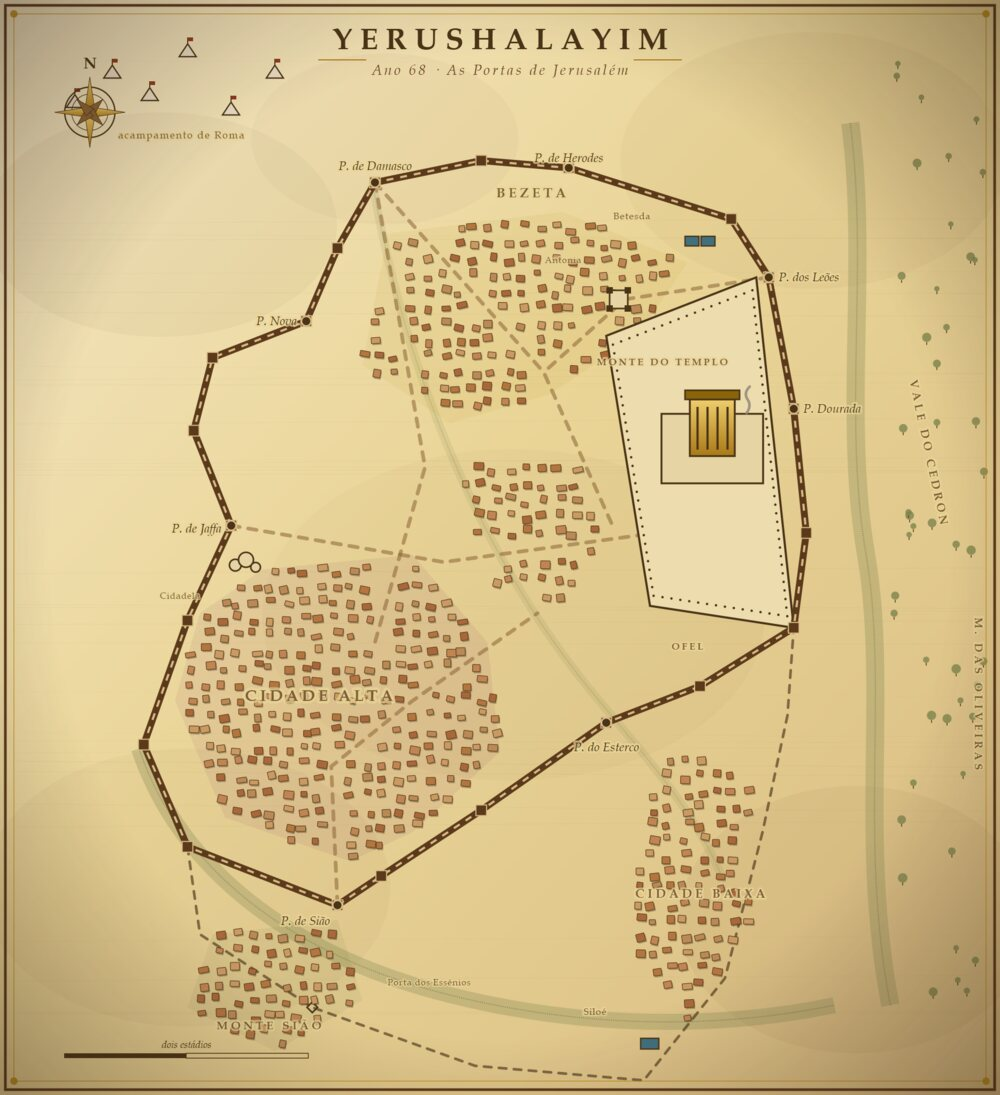
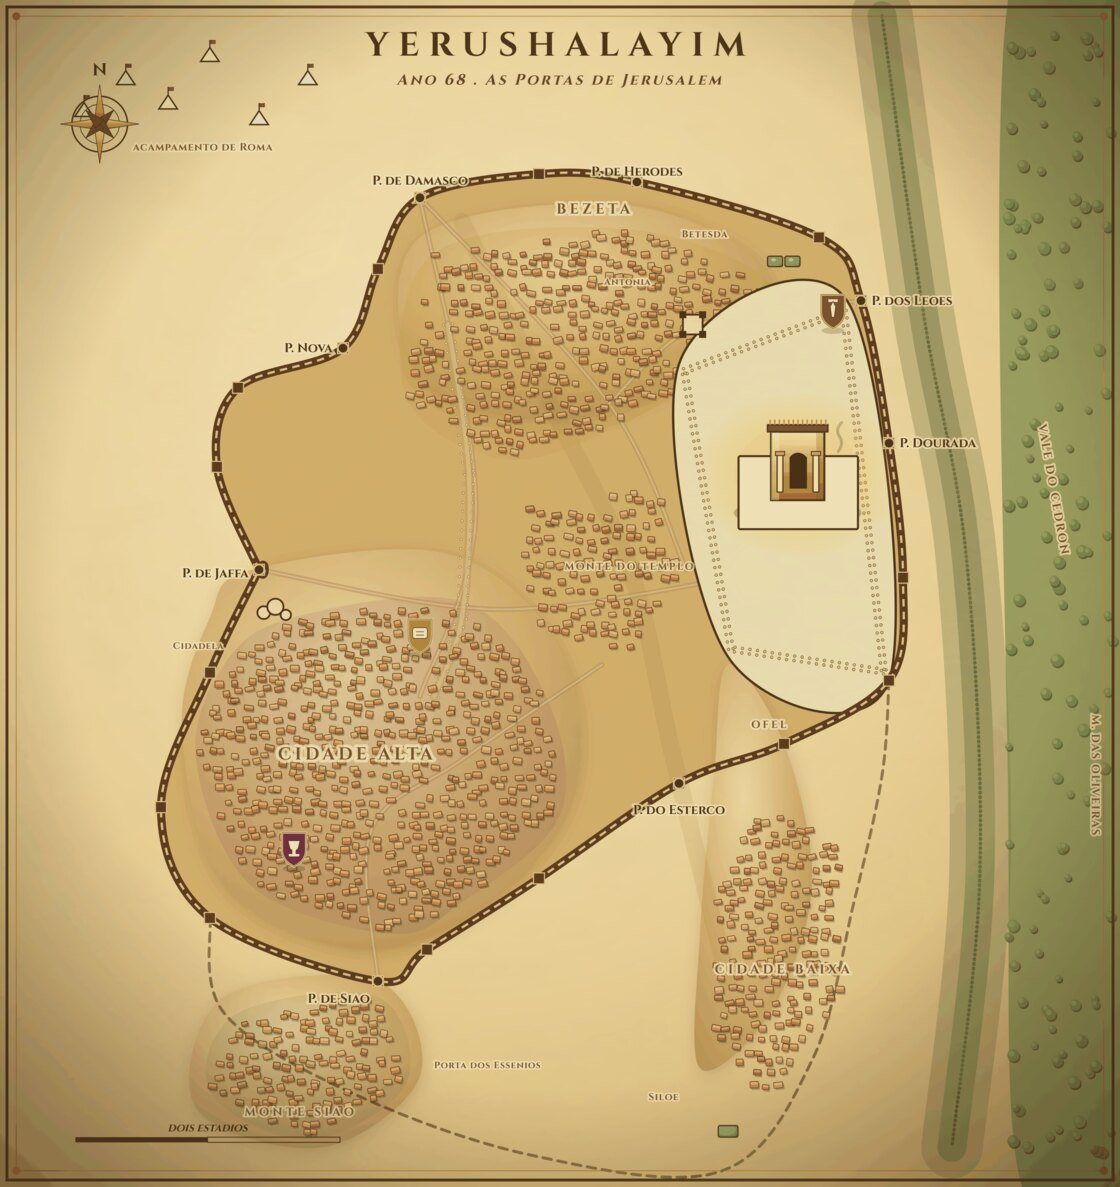
deploy: brasoes das seitas nos cards + novo mapa ilustrado no teaser

diff --git a/index.html b/index.html
@@ -77,7 +77,8 @@ h2.tit{font-family:'Cinzel',Georgia,serif;font-weight:700;font-size:clamp(26px,7
 .card h3{font-family:'Cinzel',Georgia,serif;font-size:22px;letter-spacing:.06em;text-transform:uppercase;color:#4a3418;margin-bottom:4px;}
 .card .papel{font-family:'Cinzel',Georgia,serif;font-size:11px;letter-spacing:.2em;text-transform:uppercase;color:var(--cor,var(--sepia));margin-bottom:12px;}
 .card p{font-size:16.5px;line-height:1.6;}
-.card .sel{position:absolute;top:18px;right:20px;width:12px;height:12px;border-radius:50%;background:var(--cor,var(--dourado));box-shadow:0 0 10px 1px var(--cor,var(--dourado));}
+.card__brasao{position:absolute;top:16px;right:16px;width:48px;height:auto;filter:drop-shadow(0 4px 8px rgba(0,0,0,.32));}
+.card .papel,.card h3{padding-right:58px;}
 
 .oque{background:var(--noite-2);}
 .linhas{list-style:none;max-width:560px;margin:0 auto;}
@@ -155,19 +156,19 @@ footer .cinzel{color:#b89a5f;font-size:14px;letter-spacing:.18em;}
     <h2 class="tit reveal">Três correntes, uma cidade</h2>
     <div class="cards">
       <article class="card reveal" style="--cor:#b8860b">
-        <span class="sel"></span>
+        <svg class="card__brasao" viewBox="0 0 100 118" aria-hidden="true"><defs><linearGradient id="brF" x1="0" y1="0" x2="0" y2="1"><stop offset="0" stop-color="#d9a52a"/><stop offset="1" stop-color="#9c6f0e"/></linearGradient></defs><path d="M8 8 H92 V60 Q92 98 50 114 Q8 98 8 60 Z" fill="url(#brF)" stroke="#f0d68a" stroke-width="4"/><path d="M8 8 H92 V60 Q92 98 50 114 Q8 98 8 60 Z" fill="none" stroke="#2a1a0a" stroke-width="1.3" opacity=".4"/><g transform="translate(50 58)" fill="#f7edd0" stroke="#3a2a12" stroke-width="1.4"><rect x="-21" y="-26" width="7" height="52" rx="3"/><rect x="14" y="-26" width="7" height="52" rx="3"/><circle cx="-17.5" cy="-27" r="4.5"/><circle cx="-17.5" cy="27" r="4.5"/><circle cx="17.5" cy="-27" r="4.5"/><circle cx="17.5" cy="27" r="4.5"/><rect x="-14" y="-22" width="28" height="44" fill="#f7edd0"/><line x1="-8" y1="-10" x2="8" y2="-10" stroke-width="1.6"/><line x1="-8" y1="0" x2="8" y2="0" stroke-width="1.6"/><line x1="-8" y1="10" x2="8" y2="10" stroke-width="1.6"/></g></svg>
         <div class="papel">Fariseus</div>
         <h3>Os que esperam</h3>
         <p>Os mestres da Torá, a corrente do povo e das ruas. Toda Jerusalém fala de um mestre de Natzrat. Uns o seguem, outros o temem. Descubram quem ele é, antes que a cidade decida por vocês.</p>
       </article>
       <article class="card reveal" style="--cor:#6d2857">
-        <span class="sel"></span>
+        <svg class="card__brasao" viewBox="0 0 100 118" aria-hidden="true"><defs><linearGradient id="brS" x1="0" y1="0" x2="0" y2="1"><stop offset="0" stop-color="#8a3568"/><stop offset="1" stop-color="#571f42"/></linearGradient></defs><path d="M8 8 H92 V60 Q92 98 50 114 Q8 98 8 60 Z" fill="url(#brS)" stroke="#f0d68a" stroke-width="4"/><path d="M8 8 H92 V60 Q92 98 50 114 Q8 98 8 60 Z" fill="none" stroke="#2a1a0a" stroke-width="1.3" opacity=".4"/><g transform="translate(50 56)" fill="#f7edd0" stroke="#3a2a12" stroke-width="1.4"><path d="M-20 -20 H20 L13 6 Q0 18 -13 6 Z"/><rect x="-4" y="6" width="8" height="18"/><rect x="-17" y="24" width="34" height="7" rx="2"/><path d="M0 -30 Q7 -25 2 -20 Q-4 -25 0 -30 Z" fill="#ffe08a" stroke="none"/></g></svg>
         <div class="papel">Saduceus</div>
         <h3>Os que guardam o altar</h3>
         <p>Os sacerdotes do Templo, a casa que segura o altar. Mas alguém comprou o Sumo Sacerdote, e o ouro entra por uma porta sem guarda. Sigam o dinheiro até o fundo.</p>
       </article>
       <article class="card reveal" style="--cor:#8f3a1e">
-        <span class="sel"></span>
+        <svg class="card__brasao" viewBox="0 0 100 118" aria-hidden="true"><defs><linearGradient id="brZ" x1="0" y1="0" x2="0" y2="1"><stop offset="0" stop-color="#b04d28"/><stop offset="1" stop-color="#7a2f16"/></linearGradient></defs><path d="M8 8 H92 V60 Q92 98 50 114 Q8 98 8 60 Z" fill="url(#brZ)" stroke="#f0d68a" stroke-width="4"/><path d="M8 8 H92 V60 Q92 98 50 114 Q8 98 8 60 Z" fill="none" stroke="#2a1a0a" stroke-width="1.3" opacity=".4"/><g transform="translate(50 54)" fill="#f7edd0" stroke="#3a2a12" stroke-width="1.4"><path d="M-3 -30 Q12 -12 5 10 L-5 10 Q-9 -10 -3 -30 Z"/><rect x="-14" y="10" width="28" height="6" rx="2"/><rect x="-4" y="16" width="8" height="15" rx="2"/><circle cx="0" cy="33" r="4.5"/></g></svg>
         <div class="papel">Zelotes</div>
         <h3>Os que não se curvam</h3>
         <p>Os que pegaram em armas contra Roma, no grito de que não há senhor além de D'us. Agora um incêndio vai queimar o pão da cidade e entregar o povo à fome. Vocês têm até o anoitecer para deter os seus.</p>
